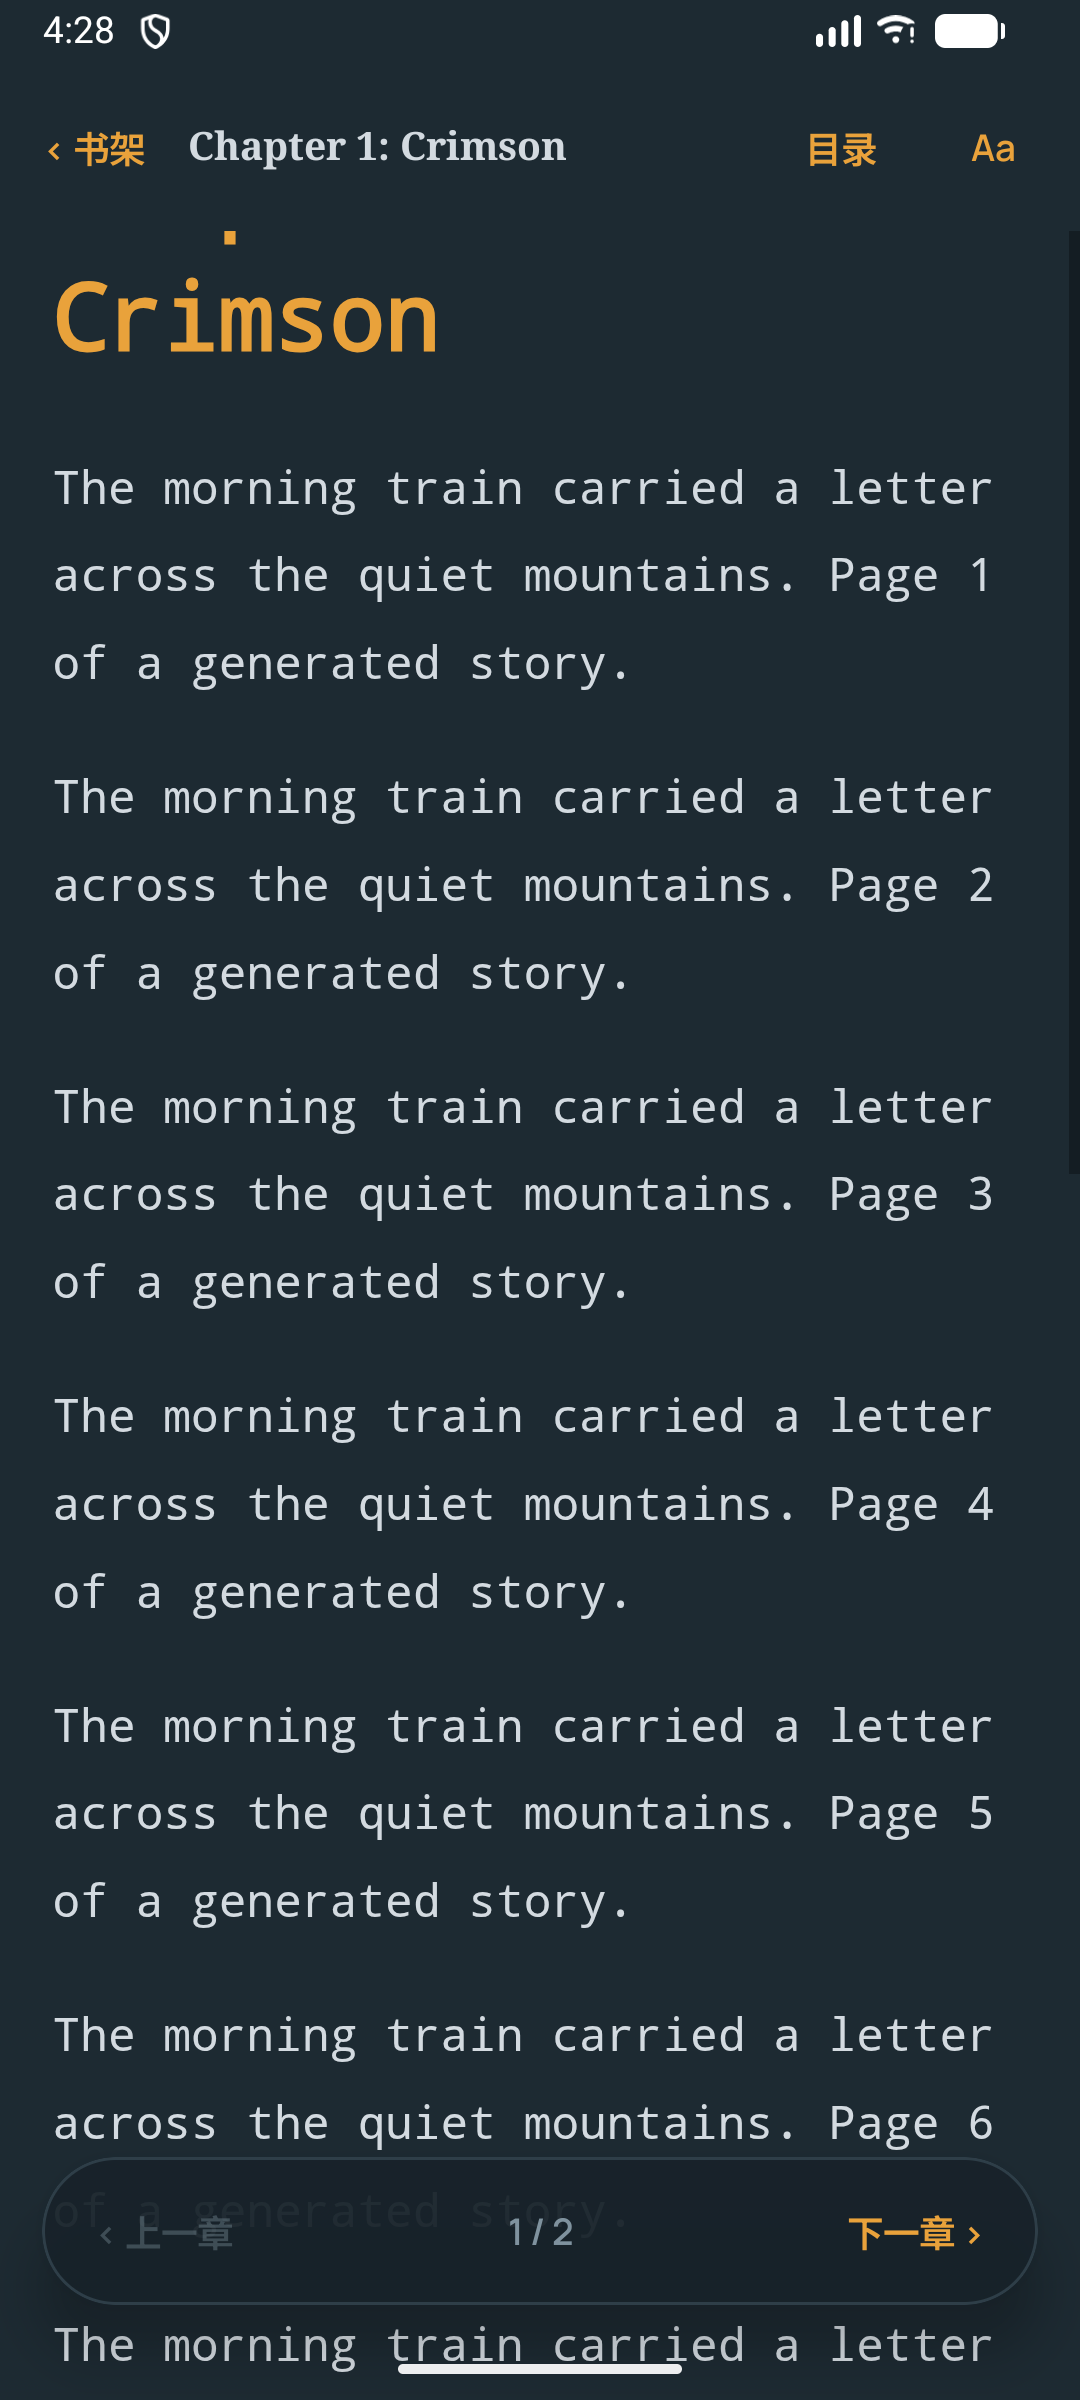
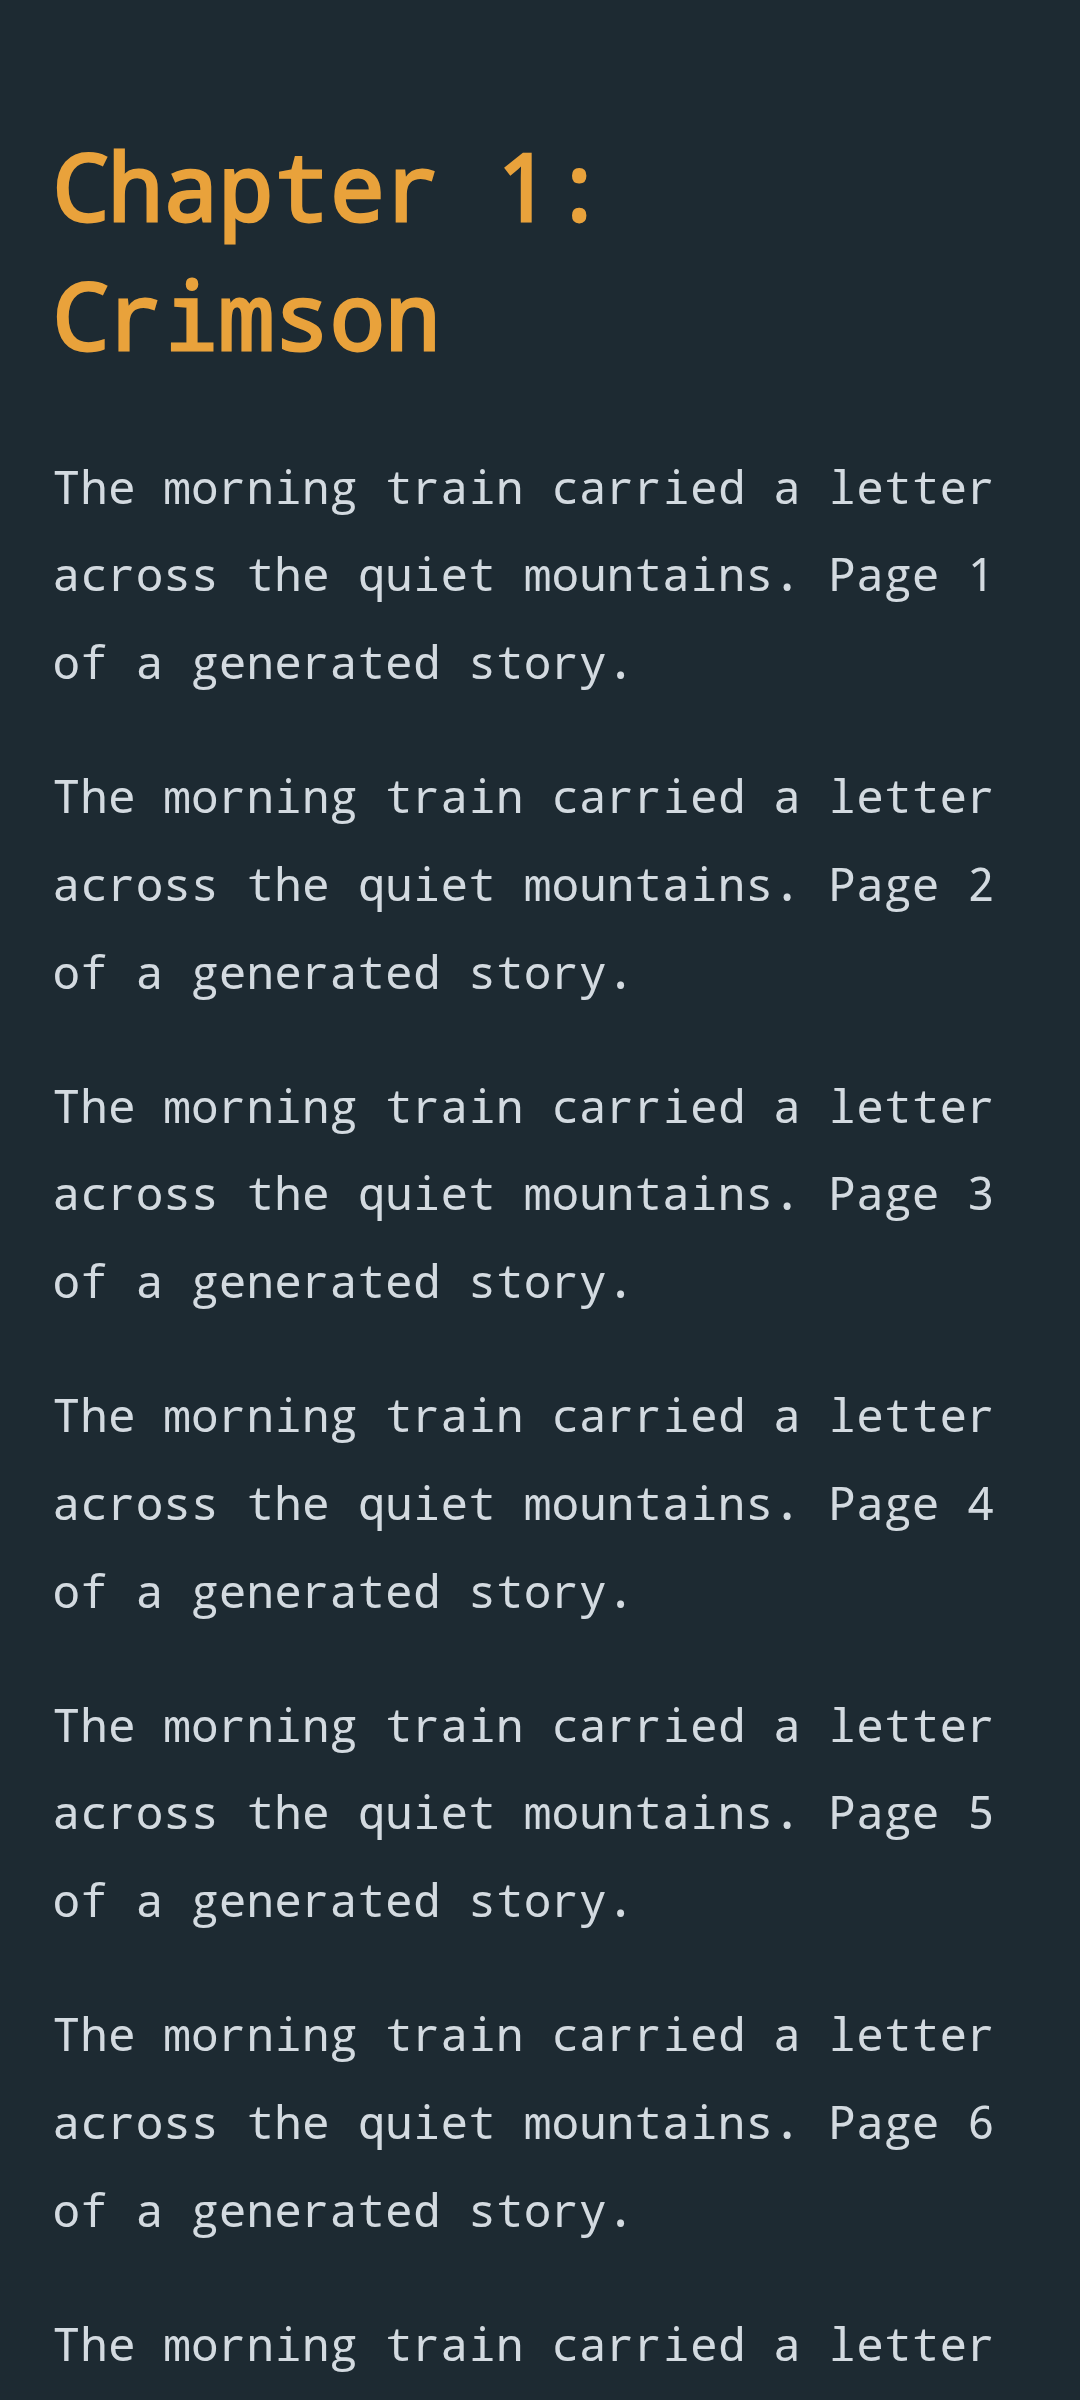
Polish reading capsules, saved chapter and terminal screenshot (#5)
* Make reader capsules opaque and show the saved chapter

* Refresh review screenshots and record Standard overlay installation

diff --git a/app/src/androidTest/java/com/example/yhviewer/V8AcceptanceTest.kt b/app/src/androidTest/java/com/example/yhviewer/V8AcceptanceTest.kt
@@ -508,6 +508,10 @@ class V8AcceptanceTest {
             waitText("Chapter 1: Crimson")
             waitForBookContent(scenario, "terminal", "rgb(29, 42, 50)", "The morning train")
             chapterAction("下一章 ›").assertIsDisplayed()
+            // Capture unobstructed chapter content after verifying the visible controls.
+            compose.onNodeWithTag("BookReaderBackground").performTouchInput { click(center) }
+            compose.waitUntil(10_000) { compose.onAllNodesWithText("Aa").fetchSemanticsNodes().isEmpty() }
+            compose.waitForIdle()
             capture("v4-terminal-reader.png")
         }
     }
@@ -539,6 +543,10 @@ class V8AcceptanceTest {
     }
 
     @Test fun continueReadingLongTitleRetainsItsButtonAtLargeFontScale() {
+        launch().use {
+            waitText("继续阅读 ›")
+            compose.onNodeWithText("读到第 13 章").assertIsDisplayed()
+        }
         val longTitle = "山海之间的漫长旅途与远方来信：写给每一个仍在路上的阅读者"
         runBlocking {
             val book = checkNotNull(db.bookDao().get(chinese))
@@ -555,6 +563,7 @@ class V8AcceptanceTest {
                 }
             }
             waitText("继续阅读 ›")
+            compose.onNodeWithText("读到第 13 章").performScrollTo().assertIsDisplayed()
             val button = compose.onNodeWithText("继续阅读 ›").performScrollTo().assertIsDisplayed().fetchSemanticsNode().boundsInRoot
             val card = compose.onNode(hasText(longTitle) and hasClickAction()).fetchSemanticsNode().boundsInRoot
             assertTrue("Continue-reading button cannot collapse below a long title", button.width > 0f && button.height > 0f)

diff --git a/app/src/main/java/com/example/yhviewer/ShelfVisuals.kt b/app/src/main/java/com/example/yhviewer/ShelfVisuals.kt
@@ -38,10 +38,10 @@ import androidx.compose.ui.unit.dp
  *
  *   DotRule / DotProgress  ← Lattice："一切由点构成"。输入框底线和进度条是一排点
  *   Modifier.pressScale     ← Lens：按下轻微下沉，松手弹回（不晃动、不持续动画）
- *   FloatingCapsule         ← Lens：浮在内容上的胶囊操作栏，半透明底 + 细线 + 柔和投影
+ *   FloatingCapsule         ← Lens：浮在内容上的胶囊操作栏，不透明底 + 细线 + 柔和投影
  *
  * 只用 Compose 自带 API，没有新依赖。真正的"背景模糊"在 Compose 里要么需要第三方库，
- * 要么拿不到 WebView 的像素（阅读页正文是 WebView），所以胶囊用 94% 不透明的底色代替。
+ * 要么拿不到 WebView 的像素（阅读页正文是 WebView），所以胶囊使用不透明的主题底色。
  */
 
 // ======================= 点线（Lattice） =======================
@@ -142,7 +142,7 @@ fun FloatingCapsule(modifier: Modifier = Modifier, content: @Composable RowScope
             Modifier
                 .fillMaxWidth()
                 .shadow(elevation = 12.dp, shape = PillShape, ambientColor = yh.shadow, spotColor = yh.shadow)
-                .background(yh.surface.copy(alpha = 0.94f), PillShape)
+                .background(yh.surface, PillShape)
                 .border(1.dp, yh.lineSoft, PillShape)
                 .padding(horizontal = 8.dp, vertical = 4.dp),
             verticalAlignment = Alignment.CenterVertically,

diff --git a/app/src/main/java/com/example/yhviewer/ShelfScreen.kt b/app/src/main/java/com/example/yhviewer/ShelfScreen.kt
@@ -560,6 +560,11 @@ private fun ContinueCard(vm: ShelfViewModel, book: Book, selected: Boolean?, onC
         Column(Modifier.weight(1f).heightIn(min = 150.dp), verticalArrangement = Arrangement.spacedBy(4.dp)) {
             Text(title, style = MaterialTheme.typography.titleLarge, color = yh.fg, maxLines = 3, overflow = TextOverflow.Ellipsis)
             author?.let { Text(it, style = MaterialTheme.typography.bodySmall, color = yh.muted, maxLines = 1, overflow = TextOverflow.Ellipsis) }
+            Text(
+                "读到第 ${Locator.decode(book.locator).chapter.toLong() + 1} 章",
+                style = MaterialTheme.typography.bodySmall,
+                color = yh.muted,
+            )
             Spacer(Modifier.weight(1f))
             DotProgress(book.progress)
             Row(verticalAlignment = Alignment.CenterVertically) {

diff --git a/docs/verification/V05_POLISH_VERIFICATION.md b/docs/verification/V05_POLISH_VERIFICATION.md
@@ -1,0 +1,25 @@
+# v0.5.0 screenshot-review follow-up
+
+Date:2026-10-17. Source branch:`codex/v05-review-polish`; production source:`c28b3b220433793932e3c7ddc1d7787d4b227ced`. Version stays0.5.0/code6; Room schema4 unchanged.
+
+## Changes and review
+
+FloatingCapsule uses the fully opaque theme surface, preventing document text from overlapping chapter/selection actions. ContinueCard displays the saved chapter below title/author, using the canonical Locator decoder and Long addition to avoid an invalid Int wrap. Existing card growth and large-font button accessibility remain intact. The terminal fixture capture verifies chapter controls, hides reader chrome through the normal center-tap gesture, waits for chrome disappearance/Compose idle, then captures the complete chapter heading.
+
+Independent code review approved the source/test diff with no blocking findings. The stale opacity comment was corrected. No storage, security-routing, permission or runtime changes were introduced.
+
+## Verification
+
+Both editions' debug and instrumentation APKs compiled. JVM reports confirm188 tests per edition, zero failures/errors/skips. Existing acceptance was extended to assert chapter13 on the authorless continue card and on its long-title/author/font-scale2 variation. Before the production fix it failed on the missing chapter label (`polish-red.log`); after the fix, all11 Strict V8AcceptanceTest scenarios passed in379.364seconds. Standard independently passed the three affected scenarios: authorless/large-font chapter label, generated shelf/multi-selection, and chapter controls/unobstructed terminal capture. Logs:polish-strict-acceptance.log and polish-standard-acceptance.log.
+
+Four affected native screenshots were regenerated from fictional documents on dedicated emulator-5556: paper shelf, ink shelf, multi-selection and terminal reader. Visual inspection confirmed the saved chapter, opaque capsule and unobstructed heading. The chapter drawer and Markdown screenshots do not require replacement.
+
+Only the dedicated API37 emulator is used for native tests. The previous API37 Python limitation and successful247-case API34 baseline are documented in [the integration report](V05_VERIFICATION.md); this narrow UI follow-up does not modify Python code or deadlines.
+
+## Candidate and phone installation
+
+[Manual signing run39035039846](https://github.com/Zer0Rin/yhviewer/actions/runs/39035039846) targets sourcec28b3b2, produces signed candidate artifacts and executes optimized API34 smoke checks. The workflow succeeded, including unit suites, optimized signed builds, final artifact checks and API34 startup smoke for both editions; Create GitHub Release was skipped. Its manual event cannot create a public Release. [PR#5](https://github.com/Zer0Rin/yhviewer/pull/5) contains the follow-up; GitHub state is the authoritative merge record.
+
+User authorizes Standard overlay installation only: no launch, phone tests, uninstall, data clearing, tag or public release. Both downloaded APK checksums match the workflow SHA256SUMS. Standard's signing-certificate SHA256 is7d04d1564661330df2029624151d50826c3bcc0ada217d77b5889ae411ef1794, matching the installed0.4.0 package. Local verify-release.sh confirms the Standard package/version, signature, permissions and runtime assets.
+
+ADB overlay installation succeeded on the authorized phone at21:16:24 Asia/Taipei. Package metadata confirms0.5.0/code6; pulling the installed base APK and comparing its SHA256 proves exact candidate bytes. First installation remains2026-10-15 21:12:55 and both user0 data-directory inodes are unchanged; stopped=true remains set. No launch, uninstall, clearing, phone test, tag or public Release was performed. Actual shelf/progress display and migration-on-launch remain for the user's own acceptance. Before/after metadata, verification and install logs are retained under ignored build/verification-v05/.

diff --git a/docs/superpowers/plans/2026-10-17-v05-review-polish.md b/docs/superpowers/plans/2026-10-17-v05-review-polish.md
@@ -1,0 +1,14 @@
+# v0.5.0 screenshot review follow-up
+
+Scope: opaque floating capsules; saved chapter below title/author on continue card; terminal capture with reader chrome hidden. Preserve version0.5.0/code6. User explicitly authorizes formally signed Standard overlay installation only, without app launch, phone tests, uninstall, clearing data, tag or public release.
+
+- [x] Verify chapter label on existing authorless/large-font acceptance before and after repair.
+- [x] Apply minimal visual changes and regenerate affected synthetic screenshots on emulator-5556 only.
+- [x] Build, run edition unit tests and targeted native acceptance, review diff and complete CI.
+- [ ] Create/attach PR and merge main after successful checks.
+- [x] Dispatch manual signed-candidate workflow; verify artifact checksum, package/version and installed signing identity.
+- [x] Overlay install Standard on authorized phone, verify package metadata without launching.
+
+Source c28b3b2: both unit suites188/188; Strict visual11/11, Standard affected3/3. Independent source review approved. Manual signing run39035039846 succeeded; candidate checksums/signature verified and Standard installed21:16:24; first installation/data inodes retained, exact APK bytes verified, stopped=true. No app launch or phone test. PR#5 created and attached. Four updated screenshots visually checked.
+
+PR#5 final documentation/screenshots commit requires successful PR checks before merge; GitHub PR state is the authoritative merge record.
